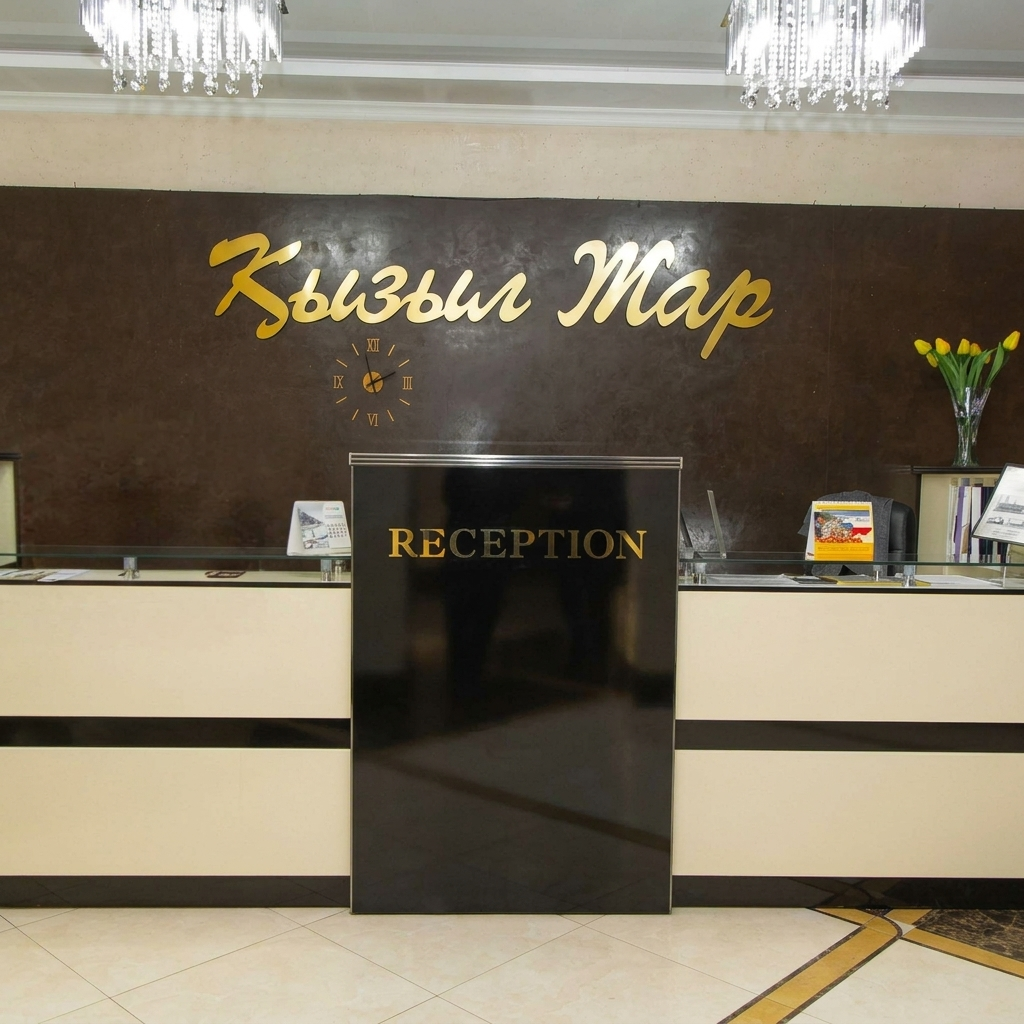
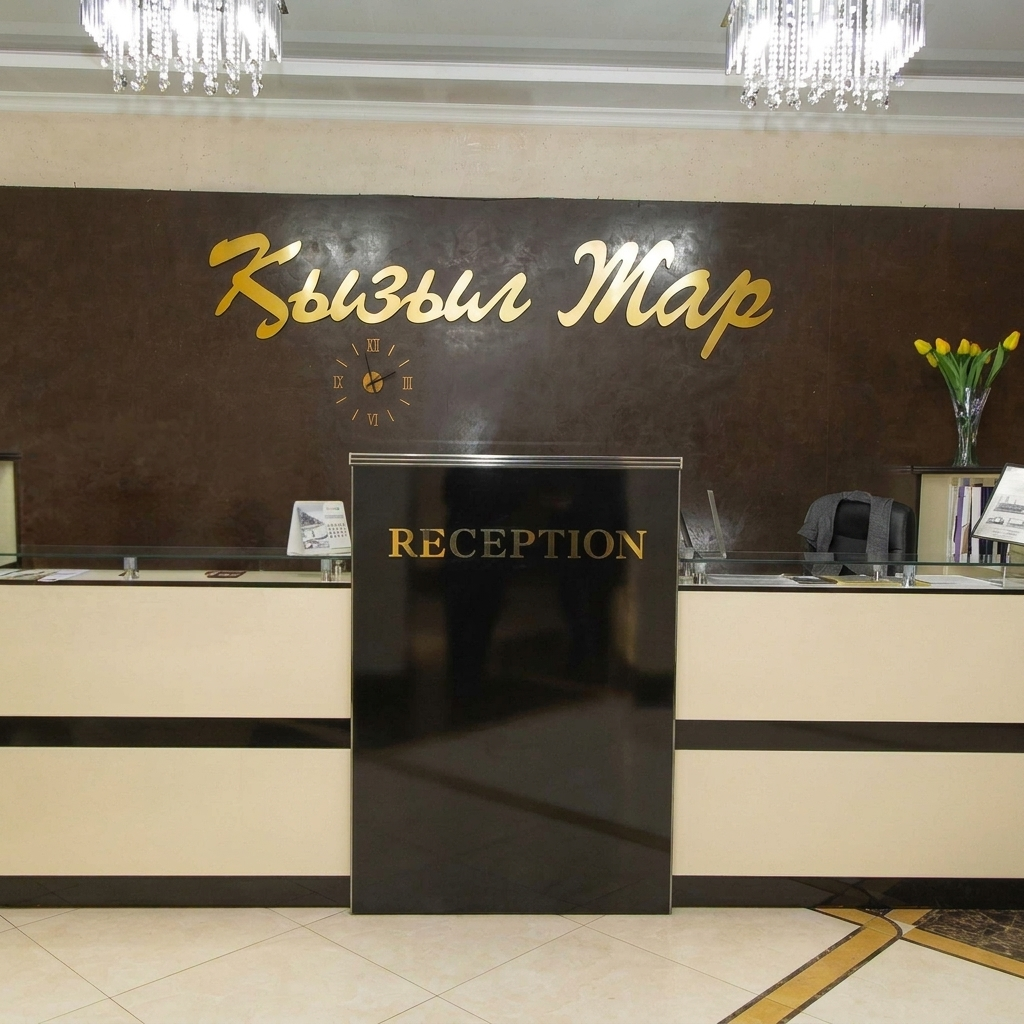
final

Changed region(s): [[0.7812, 0.4688, 0.875, 0.5625], [0.9375, 0.375, 0.9688, 0.4062]]

diff --git a/src/data/rooms.tsx b/src/data/rooms.tsx
@@ -388,7 +388,14 @@ export const ROOMS_DATA: Record<string, RoomData> = {
         id: "econom-2",
         name: { ru: "ЭКОНОМ 2-Х МЕСТНЫЙ", kz: "ЭКОНОМ 2 ОРЫНДЫҚ", en: "ECONOM DOUBLE", zh: "经济双人房", az: "EKONOM İKИ NƏFƏRLİK" },
         price: "26 000",
-        images: ["/kyzylzharNomera/econom-2place/IMG_0595.jpg", "/kyzylzharNomera/econom-2place/IMG_0602.jpg", "/kyzylzharNomera/econom-2place/IMG_0600.jpg", "/kyzylzharNomera/econom-2place/IMG_0587.jpg"],
+        images: [
+            "/kyzylzharNomera/econom-2place/econom-pic1.jpg",
+            "/kyzylzharNomera/econom-2place/econom-pic2.jpg",
+            "/kyzylzharNomera/econom-2place/econom-pic3.jpg",
+            "/kyzylzharNomera/econom-2place/econom-pic4.jpg",
+            "/kyzylzharNomera/econom-2place/econom-pic5.jpg",
+            "/kyzylzharNomera/econom-2place/econom-pic6.jpg"
+        ],
         amenityKeys: ["tv", "wifi", "breakfastTime", "noSmoking"],
         descriptionCategory: "econom"
     },

diff --git a/src/components/hotel/HeroSection.tsx b/src/components/hotel/HeroSection.tsx
@@ -53,8 +53,8 @@ const HeroSection = () => {
   const [guests, setGuests] = useState("");
 
   const heroImages = [
-    "/rakhat.png",
-    "/rakhat2.png",
+    "/kyzylzharNomera/dron-1.JPG",
+    "/kyzylzharNomera/dron-2.JPG",
     "/reception-new.jpeg",
     "/kyzylzharNomera/reception/IMG_9921.jpg",
     "/kyzylzharNomera/reception/IMG_9928.jpg"
